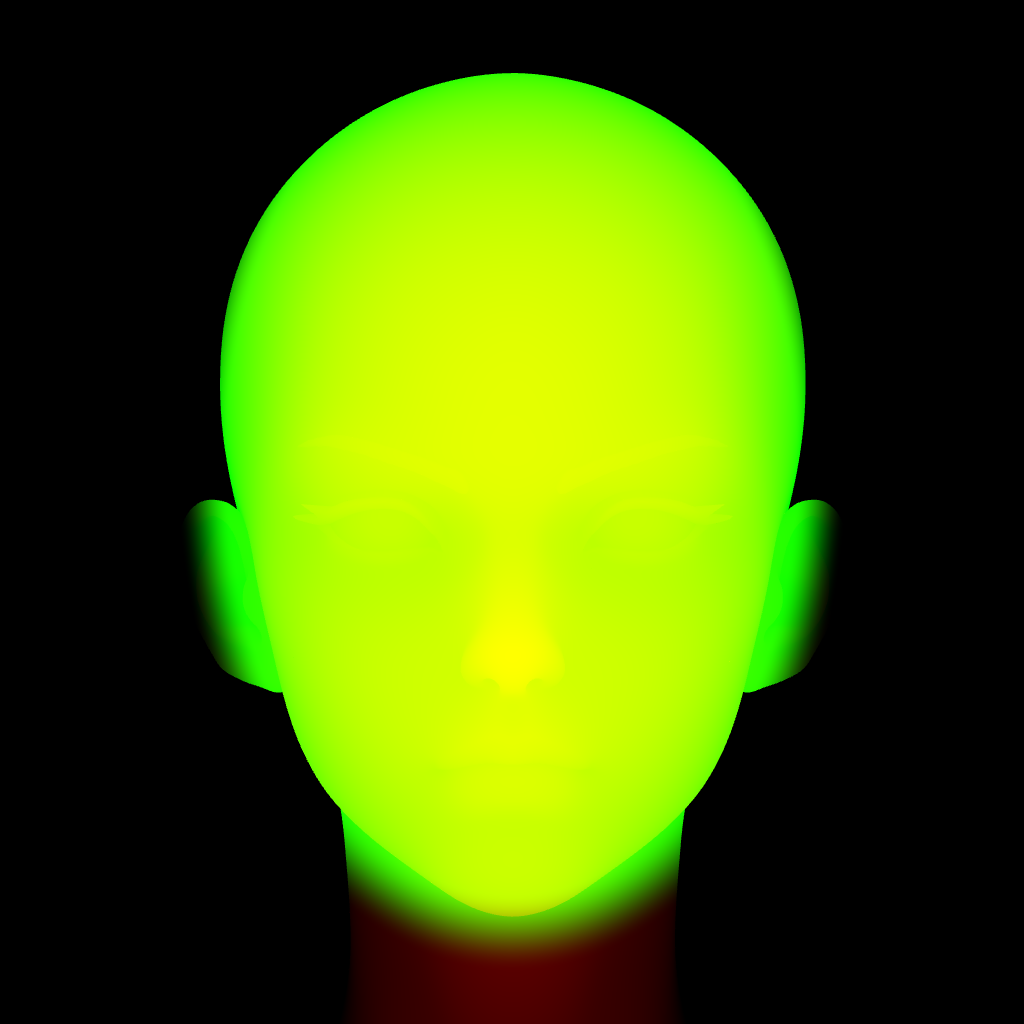
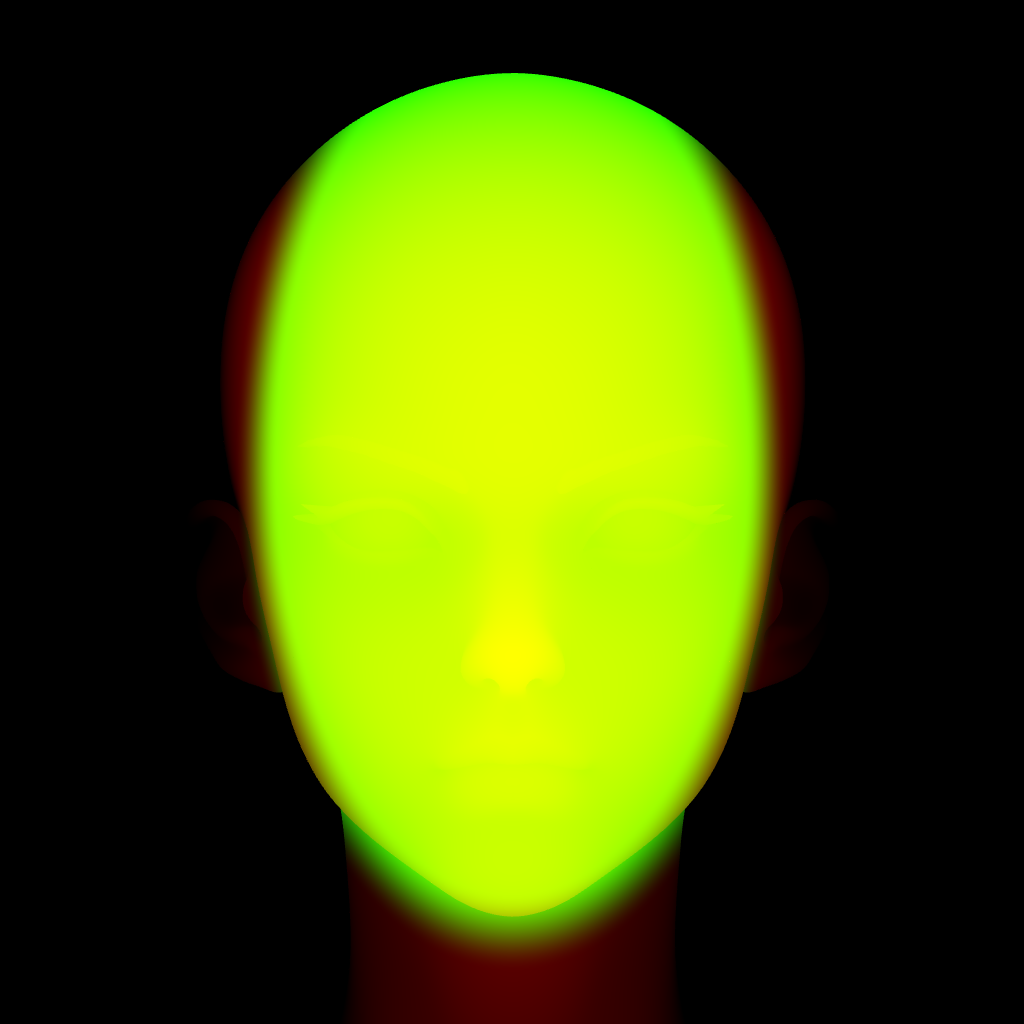
곡률 음영·밀도로 이목구비를 살리고 귀 마스크를 조임
법선 맵에는 눈·코·입이 온전히 들어 있었는데 런타임이 그걸 버리고 있었다.
dot(n,L) 그라디언트만으로는 얼굴이 매끈한 달걀로 읽힌다.

- 곡률 음영: 법선의 발산을 두 반경으로 섞어 vLight에 곱한다. 조명과 무관한
  형태 신호라 광원 반대쪽 절반에서도 이목구비가 산다. 오목/볼록 비대칭으로
  줘야 눈두덩·입술이 밝은 테두리로 타지 않는다.
- 실루엣 가드: 미분 탭이 배경으로 떨어지면 값이 폭발해 턱선이 밝은 날개가
  된다. 커버리지를 검사해 0을 반환 (셰이더·CPU 양쪽).
- 곡률 밀도: 배치 CDF에 곡률 크기를 곱해 굴곡진 자리에 점을 몰아준다.
  점 그림에서 대비는 밝기만이 아니라 밀도로도 온다.
- 알파 하한 0.84 → 0.34: 하한이 높으면 그늘도 최대 불투명도로 찍혀
  additive로 쌓일 때 밝은 곳과 같은 톤이 됐다.
- 반대쪽 약한 필 라이트 추가.
- 귀 마스크 maskrx 0.63 → 0.52로 재베이킹. 대비가 낮을 땐 안 보이던 귀가
  대비를 올리자 얼굴보다 먼저 눈에 들어왔다.

TypedText: 고스트에도 캐럿을 넣는다. 캐럿은 인라인이라 줄바꿈 위치를
바꾸는데, tt-live는 absolute라 늘어난 줄이 고스트가 예약한 높이를 뚫고
아래 힌트를 덮고 있었다.

검증(1280×800 실측 박스): 눈구멍 대비 50→61%, 콧대 41→77%, 입 15→124%.
콘솔 에러 0, 모바일 탭 진행·오버플로 0, reduced-motion 즉시 완성, 빌드 성공.

Claude-Session: https://claude.ai/code/session_01CZAv71N1ocKnDNk7CtMzQs

Changed region(s): [[0.5625, 0.125, 0.8125, 0.9375], [0.1875, 0.125, 0.4375, 0.9375]]

diff --git a/apps/pioneer/webgl/FaceParticles.ts b/apps/pioneer/webgl/FaceParticles.ts
@@ -91,6 +91,11 @@ export class FaceParticles {
         uNoiseFrequency: { value: 0.4 },
         uNoiseIntensity: { value: 0.015 },
         uDepthScale: { value: 0.55 },
+        // 곡률 음영 강도. 이 값이 이목구비 가시성을 사실상 혼자 좌우한다 —
+        // 0이면 dot(n,L) 그라디언트만 남아 얼굴이 매끈한 달걀로 읽힌다
+        uCavity: { value: 2.8 },
+        // 법선 맵이 실리면 실제 크기로 덮어쓴다
+        uTexel: { value: 1 / 1024 },
         uPixelRatio: { value: Math.min(window.devicePixelRatio, 2) },
         uYaw: { value: 0 },
         uPitch: { value: 0 },
@@ -149,6 +154,8 @@ export class FaceParticles {
         this.normal = mk(normalImg)
         this.material.uniforms.uFaceDepth.value = this.depth
         this.material.uniforms.uFaceNormal.value = this.normal
+        // 곡률 미분 간격은 맵 해상도에 묶여 있다 — 하드코딩하면 맵을 다시 구울 때 틀어진다
+        this.material.uniforms.uTexel.value = 1 / normalImg.naturalWidth
 
         this.scatter(readPixels(depthImg), readPixels(normalImg))
         gsap.to(this.material.uniforms.uOpacity, { value: 0.75, duration: 1.6, ease: 'power2.out' })
@@ -162,6 +169,11 @@ export class FaceParticles {
    * 화면에서 잰 면적은 표면이 옆으로 누울수록 작아진다(계수 |n.z|). 균등하게
    * 뿌리면 그런 곳 — 실루엣, 콧방울, 턱선 — 이 성기게 깔려 형태가 흐려진다.
    * 1/|n.z|로 가중해 뽑으면 표면적 기준으로 고르게 깔린다.
+   *
+   * 여기에 **곡률 가중**을 더한다. 점으로 그린 그림에서 대비는 밝기만이 아니라
+   * 밀도로도 온다 — 굴곡이 심한 자리(눈·코·입)에 점을 몰아주면 같은 개수로도
+   * 이목구비의 해상도만 올라간다. 밝기로만 대비를 주려 하면 얼굴 전체를
+   * 어둡게 깔아야 해서 실루엣까지 같이 죽는다.
    */
   private scatter(depthData: ImageData, normalData: ImageData) {
     const W = depthData.width
@@ -169,6 +181,22 @@ export class FaceParticles {
     const dep = depthData.data
     const nrm = normalData.data
     const nW = normalData.width
+    const nH = normalData.height
+
+    // 셰이더의 curvature()와 같은 식 — 법선의 발산. 부호는 버리고 크기만 쓴다
+    // (능선이든 골이든 "이목구비가 있는 자리"라는 신호는 같다)
+    const curvAt = (ni: number, nj: number, r: number) => {
+      const cl = (a: number, hi: number) => Math.min(hi - 1, Math.max(0, a))
+      const at = (a: number, b: number, ch: number) =>
+        (nrm[(cl(b, nH) * nW + cl(a, nW)) * 4 + ch]! / 255) * 2 - 1
+      // 셰이더와 같은 실루엣 가드 — 탭이 배경으로 떨어지면 미분이 폭발해
+      // 턱선에 파티클이 몰린다. 커버리지는 depth 맵 기준이라 좌표를 환산한다
+      const covAt = (a: number, b: number) =>
+        dep[(cl(Math.round((b / nH) * H), H) * W + cl(Math.round((a / nW) * W), W)) * 4 + 1]!
+      if (Math.min(covAt(ni + r, nj), covAt(ni - r, nj), covAt(ni, nj - r), covAt(ni, nj + r)) < 128) return 0
+      // 텍스처는 flipY라 uv.y 증가 = 이미지 행 감소
+      return (at(ni + r, nj, 0) - at(ni - r, nj, 0)) + (at(ni, nj - r, 1) - at(ni, nj + r, 1))
+    }
 
     // 누적분포를 만들어 역함수로 뽑는다 — 기각 샘플링은 커버리지가 좁을 때 느리다
     const weights = new Float32Array(W * H)
@@ -180,12 +208,17 @@ export class FaceParticles {
         if (cover < 0.5) continue
         // 법선 맵이 다른 해상도일 수 있으므로 비율로 인덱싱한다
         const ni = Math.min(nW - 1, Math.round((i / W) * nW))
-        const nj = Math.min(normalData.height - 1, Math.round((j / H) * normalData.height))
+        const nj = Math.min(nH - 1, Math.round((j / H) * nH))
         const nz = Math.abs((nrm[(nj * nW + ni) * 4 + 2]! / 255) * 2 - 1)
         // 가중을 세게 주면(1/nz 그대로) 실루엣에 파티클이 몰려 얼굴이 테두리만
         // 남고, 평평한 이마·볼이 성겨진다. head tracking 회전이 ±30° 수준이라
         // 화면 균등에 가깝게 두고 단축 보정은 얕게만 얹는 게 형태가 잘 읽힌다
-        const w = cover * (0.6 + 0.4 / Math.max(0.5, nz))
+        const fore = 0.6 + 0.4 / Math.max(0.5, nz)
+        // 곡률 밀도. 상한을 두는 이유는 눈·콧구멍의 급격한 경계에서 값이 튀어
+        // 거기만 점이 뭉치고 이마·볼이 텅 비기 때문이다
+        const k = Math.abs(curvAt(ni, nj, 2)) * 0.65 + Math.abs(curvAt(ni, nj, 5)) * 0.35
+        const feat = 1 + Math.min(1.7, k * 5.5)
+        const w = cover * fore * feat
         weights[o] = w
         total += w
       }

diff --git a/apps/pioneer/webgl/faceParticleShaders.ts b/apps/pioneer/webgl/faceParticleShaders.ts
@@ -39,6 +39,8 @@ uniform float uScaleVariation;    // 원본: 0~5
 uniform float uNoiseFrequency;    // 원본: 0.4
 uniform float uNoiseIntensity;    // 원본: 0.015
 uniform float uDepthScale;        // depth 텍스처 → z 변위 배율
+uniform float uCavity;            // 곡률 음영 강도 — 이목구비를 집어내는 항
+uniform float uTexel;             // 법선 맵 1픽셀의 uv 크기 (곡률 미분 간격)
 uniform float uPixelRatio;
 uniform float uYaw;
 uniform float uPitch;
@@ -57,6 +59,26 @@ varying float vSeedY;
 varying float vLight;
 varying float vMask;
 varying float vTypeWave;
+
+/**
+ * 법선의 발산(divergence) = 표면 곡률.
+ * 볼록한 능선(콧대·눈두덩·입술 가장자리)은 양수, 오목한 골(눈구멍·콧방울골·
+ * 입술선)은 음수다. **조명 방향과 무관**하다는 게 핵심 — dot(n,L)만 쓰면
+ * 광원 반대쪽 절반은 이목구비가 통째로 그림자에 잠겨 사라진다.
+ */
+float curvature(vec2 uv, float r) {
+  vec2 dx = vec2(r, 0.0);
+  vec2 dy = vec2(0.0, r);
+  // 실루엣 경계에서는 탭 하나가 배경으로 떨어져 미분이 폭발한다. 막지 않으면
+  // 턱선·관자놀이가 밝은 날개처럼 타올라 얼굴보다 눈에 먼저 들어온다
+  float cov = min(
+    min(texture2D(uFaceDepth, uv + dx).g, texture2D(uFaceDepth, uv - dx).g),
+    min(texture2D(uFaceDepth, uv + dy).g, texture2D(uFaceDepth, uv - dy).g));
+  if (cov < 0.5) return 0.0;
+  float cx = texture2D(uFaceNormal, uv + dx).r - texture2D(uFaceNormal, uv - dx).r;
+  float cy = texture2D(uFaceNormal, uv + dy).g - texture2D(uFaceNormal, uv - dy).g;
+  return cx + cy;
+}
 
 // --- simplex noise (Ashima 3D) ---
 vec3 mod289(vec3 x) { return x - floor(x * (1.0 / 289.0)) * 289.0; }
@@ -154,9 +176,23 @@ void main() {
   // 하프 램버트만으로는 그라디언트가 너무 매끄러워 콧대·눈두덩·입술 같은
   // 국소 굴곡이 묻힌다. 좁은 하이라이트를 하나 더 얹어 능선을 집어낸다
   float sheen = pow(key, 7.0);
+  // 반대쪽에서 들어오는 약한 필. 키 라이트 하나만 두면 오른쪽 절반이 균일한
+  // 어둠이 되어, 곡률로 이목구비를 살려도 실을 밝기 자체가 없다
+  float fill = max(0.0, dot(nrm, normalize(vec3(0.75, -0.15, 0.55)))) * 0.16;
   // 림은 아주 얕게만 — 세게 주면 얼굴이 테두리만 밝은 껍데기로 읽힌다
   float rim = pow(1.0 - clamp(nrm.z, 0.0, 1.0), 3.0);
-  vLight = 0.32 + key * 0.60 + sheen * 0.38 + rim * 0.06;
+  float lit = 0.22 + key * 0.58 + sheen * 0.34 + fill + rim * 0.06;
+
+  // 곡률 음영. 두 반경을 섞는 이유는 스케일이 다른 특징이 섞여 있기 때문 —
+  // 좁은 쪽이 입술선·쌍꺼풀·콧방울 같은 선을, 넓은 쪽이 눈구멍·볼우물 같은
+  // 면을 잡는다. 한쪽만 쓰면 나머지가 통째로 묻힌다.
+  float curv = curvature(uv, uTexel * 2.0) * 0.65
+             + curvature(uv, uTexel * 5.0) * 0.35;
+  // 오목한 쪽만 세게 누르고 볼록한 쪽은 살짝만 올린다. 얼굴은 "패인 곳이
+  // 어둡다"로 읽힌다 — 볼록에 같은 세기를 주면 눈두덩·입술 가장자리가 밝은
+  // 테두리로 타올라 눈이 고글처럼, 얼굴이 가면처럼 보인다.
+  float shade = 1.0 + curv * uCavity * (curv < 0.0 ? 1.25 : 0.7);
+  vLight = lit * clamp(shade, 0.17, 1.72);
 
   // --- 문장 출력 진동 ---
   // 단어마다 파문 하나가 얼굴 중심에서 태어나 바깥으로 퍼지며 잦아든다.
@@ -267,9 +303,12 @@ void main() {
   // 이미 밝은 쪽에서 묻히지만, 색으로 갈아끼우면 어디를 지나는지 또렷하다
   color = mix(color, uRingColor * (0.45 + lum * 0.85), clamp(vTypeWave * uRingTint, 0.0, 0.82));
 
-  // 얼굴 영역이면 고르게 보이도록 알파에 하한을 준다 — 밝기를 그대로 알파로
-  // 쓰면 어두운 쪽이 통째로 사라져 형태에 구멍이 난다
-  float faceOpacity = vMask * (0.84 + lum * 0.16);
+  // 알파도 밝기를 따라가게 한다. 하한이 0.84이던 시절에는 그늘진 곳도 거의
+  // 최대 불투명도로 점을 찍어서, 색을 아무리 어둡게 잡아도 additive로 쌓이면
+  // 밝은 곳과 같은 톤으로 뭉갰다 — 이목구비가 사라진 주된 이유가 이것이다.
+  // 하한을 낮춰도 구멍이 나지 않는 건 이제 lum이 albedo 추정이 아니라
+  // 조명·곡률에서 나온 매끈한 값이고, 패인 자리에는 점을 더 많이 뿌리기 때문.
+  float faceOpacity = vMask * (0.34 + lum * 0.66);
   float alpha = vFade * disc * faceOpacity * uOpacity;
   if (alpha < 0.015) discard;
 

diff --git a/apps/pioneer/components/experience/TypedText.vue b/apps/pioneer/components/experience/TypedText.vue
@@ -1,8 +1,11 @@
 <template>
   <!-- 완성된 문장을 visibility:hidden으로 깔아 자리를 먼저 잡는다.
-       없으면 줄 수가 늘어날 때마다 아래 내용이 밀려 레이아웃이 출렁인다 -->
+       없으면 줄 수가 늘어날 때마다 아래 내용이 밀려 레이아웃이 출렁인다.
+       고스트에도 캐럿을 넣는 게 중요하다 — 캐럿은 인라인이라 줄바꿈 위치를
+       바꾼다. 빼면 실제 텍스트만 한 줄 더 접히는데, tt-live는 absolute라
+       늘어난 줄이 고스트가 잡아 둔 높이를 뚫고 아래 문단을 덮는다 -->
   <component :is="tag" class="typed-text" :class="{ 'is-typing': typing }" :aria-label="text">
-    <span class="tt-ghost" aria-hidden="true">{{ text }}</span>
+    <span class="tt-ghost" aria-hidden="true">{{ text }}<i v-if="caret" class="tt-caret" /></span>
     <span class="tt-live" aria-hidden="true">{{ shown }}<i v-if="caret" class="tt-caret" /></span>
   </component>
 </template>

diff --git a/docs/TECHNIQUES.md b/docs/TECHNIQUES.md
@@ -106,6 +106,30 @@
   반드시 비스듬한 광원 + 하프 램버트(그림자 경계가 뚝 끊기지 않게) + 좁은 하이라이트
   (`pow(key, 7)`)로 능선을 집어낼 것. 조명 대비를 바꾸면 additive 누적 평균이 함께
   변하므로 색 계수를 다시 맞춰야 한다.
+- **곡률 음영 — 이목구비를 살리는 핵심 항**: `dot(n,L)`만으로는 광원 반대쪽 절반의
+  이목구비가 통째로 그림자에 잠긴다. **법선의 발산**(`d(n.x)/dx + d(n.y)/dy`)은
+  조명과 무관한 순수 형태 신호다 — 볼록(콧대·눈두덩)은 양수, 오목(눈구멍·입술선)은
+  음수. `vLight *= 1.0 + curv * k`로 곱하면 이목구비가 즉시 드러난다. 주의 넷:
+  ① **반경 두 개를 섞을 것**(좁은 쪽=입술선·쌍꺼풀, 넓은 쪽=눈구멍·볼우물).
+  한쪽만 쓰면 다른 스케일이 통째로 묻힌다.
+  ② **오목/볼록을 비대칭으로** — 볼록에 같은 세기를 주면 눈두덩·입술 가장자리가
+  밝은 테두리로 타올라 눈이 고글처럼, 얼굴이 가면처럼 보인다(concave 1.25 / convex 0.7).
+  ③ **실루엣 가드 필수** — 미분 탭 하나가 배경으로 떨어지면 값이 폭발해 턱선·관자놀이가
+  밝은 날개로 타오른다. 탭 위치의 커버리지를 검사해 하나라도 밖이면 0을 반환할 것.
+  ④ 미분 간격은 맵 해상도에 묶이므로 `uTexel`을 uniform으로 받을 것(하드코딩 금지).
+- **점 그림의 대비는 밀도로도 온다**: 밝기만으로 이목구비를 살리려 하면 얼굴 전체를
+  어둡게 깔아야 해서 실루엣까지 죽는다. 배치 CDF에 **곡률 크기**(부호 무시)를 곱해
+  굴곡진 자리에 점을 몰아주면 같은 개수로 이목구비의 해상도만 올라간다. 상한을
+  둘 것(`1 + min(1.7, k*5.5)`) — 없으면 눈·콧구멍 경계에만 뭉치고 이마·볼이 빈다.
+  셰이더와 **같은 실루엣 가드**를 CPU 쪽에도 넣어야 한다(안 넣으면 턱선에 몰린다).
+- **알파 하한이 대비를 잡아먹는다**: `alpha = 0.84 + lum*0.16`처럼 하한을 높게 두면
+  그늘진 곳도 거의 최대 불투명도로 점을 찍어, 색을 아무리 어둡게 잡아도 additive로
+  쌓이면 밝은 곳과 같은 톤이 된다. 하한은 밝기가 albedo 추정이 아니라 조명·곡률에서
+  나오는 매끈한 값일 때 낮춰도 안전하다(0.34 + lum*0.66).
+- **귀 마스크**: 타원 마스크의 `maskrx`는 리프레이밍 후 NDC 기준인데, 얼굴은 보통
+  가로보다 세로가 길어 `half`가 세로로 잡힌다 — 즉 얼굴의 가로 NDC 범위는 1보다
+  한참 작다. 0.63으로는 귀가 남는다(0.52 필요). 대비가 낮을 땐 안 보이다가 대비를
+  올리는 순간 귀가 얼굴보다 먼저 눈에 들어온다.
 - **파문의 색 전환**: 밝기만 더하면(`color += tint * wave`) 이미 밝은 쪽에서 묻힌다.
   `mix()`로 색을 갈아끼우면 파문이 어디를 지나는지 또렷하다. 다만 계수를 1에
   가깝게 두면 얼굴이 통째로 사라지므로 0.6 안팎에서 바탕이 비치게 할 것.
